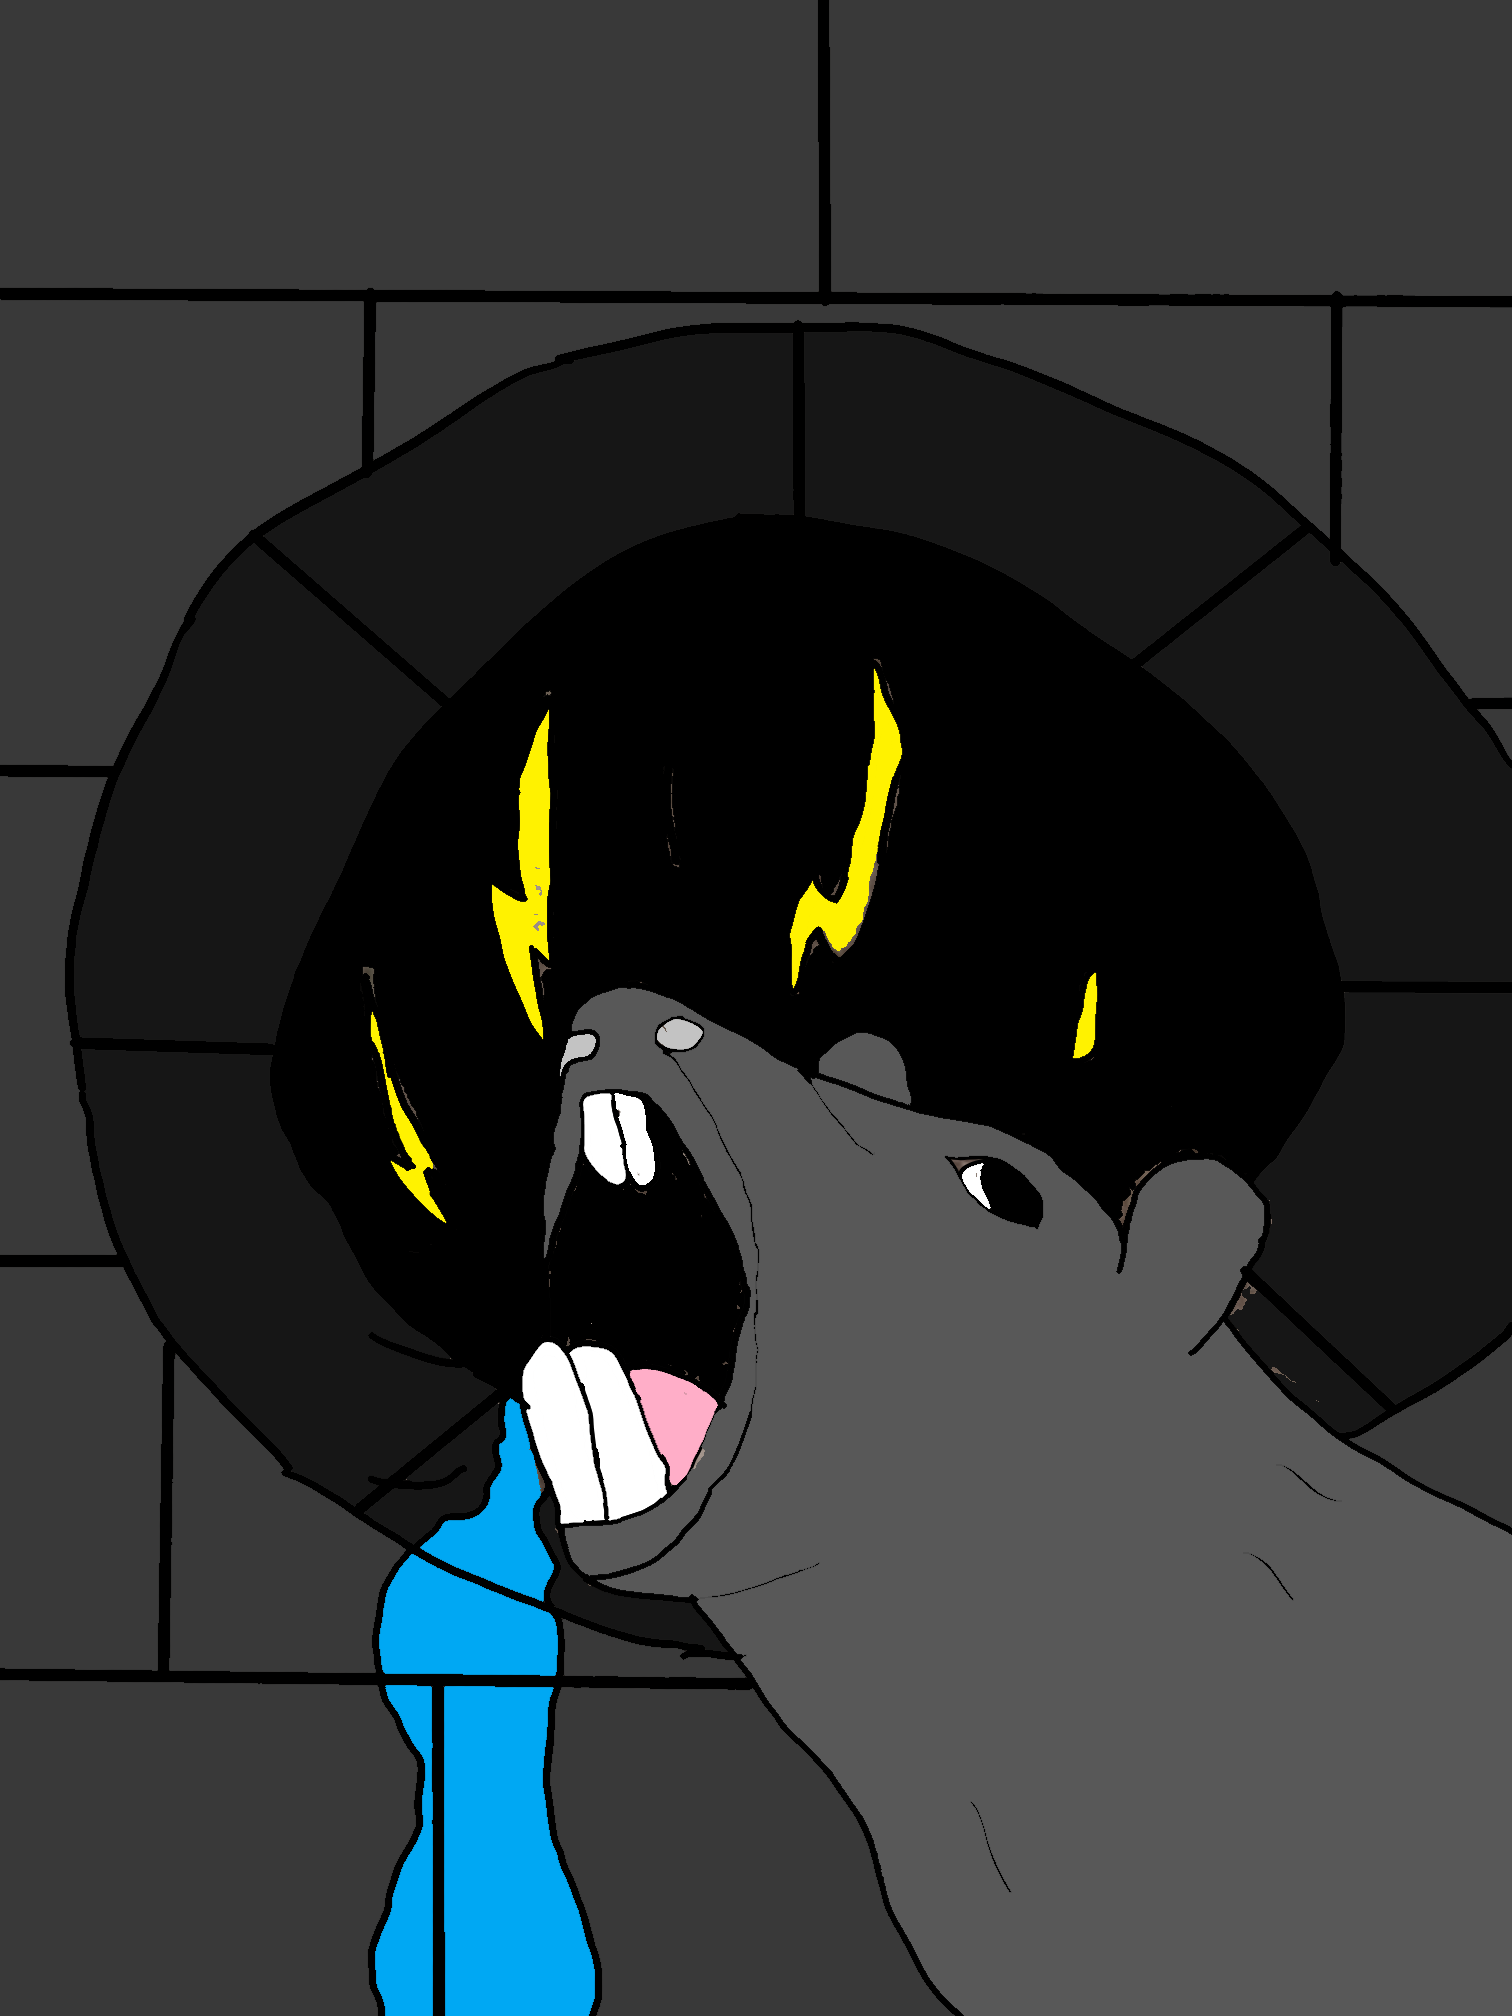
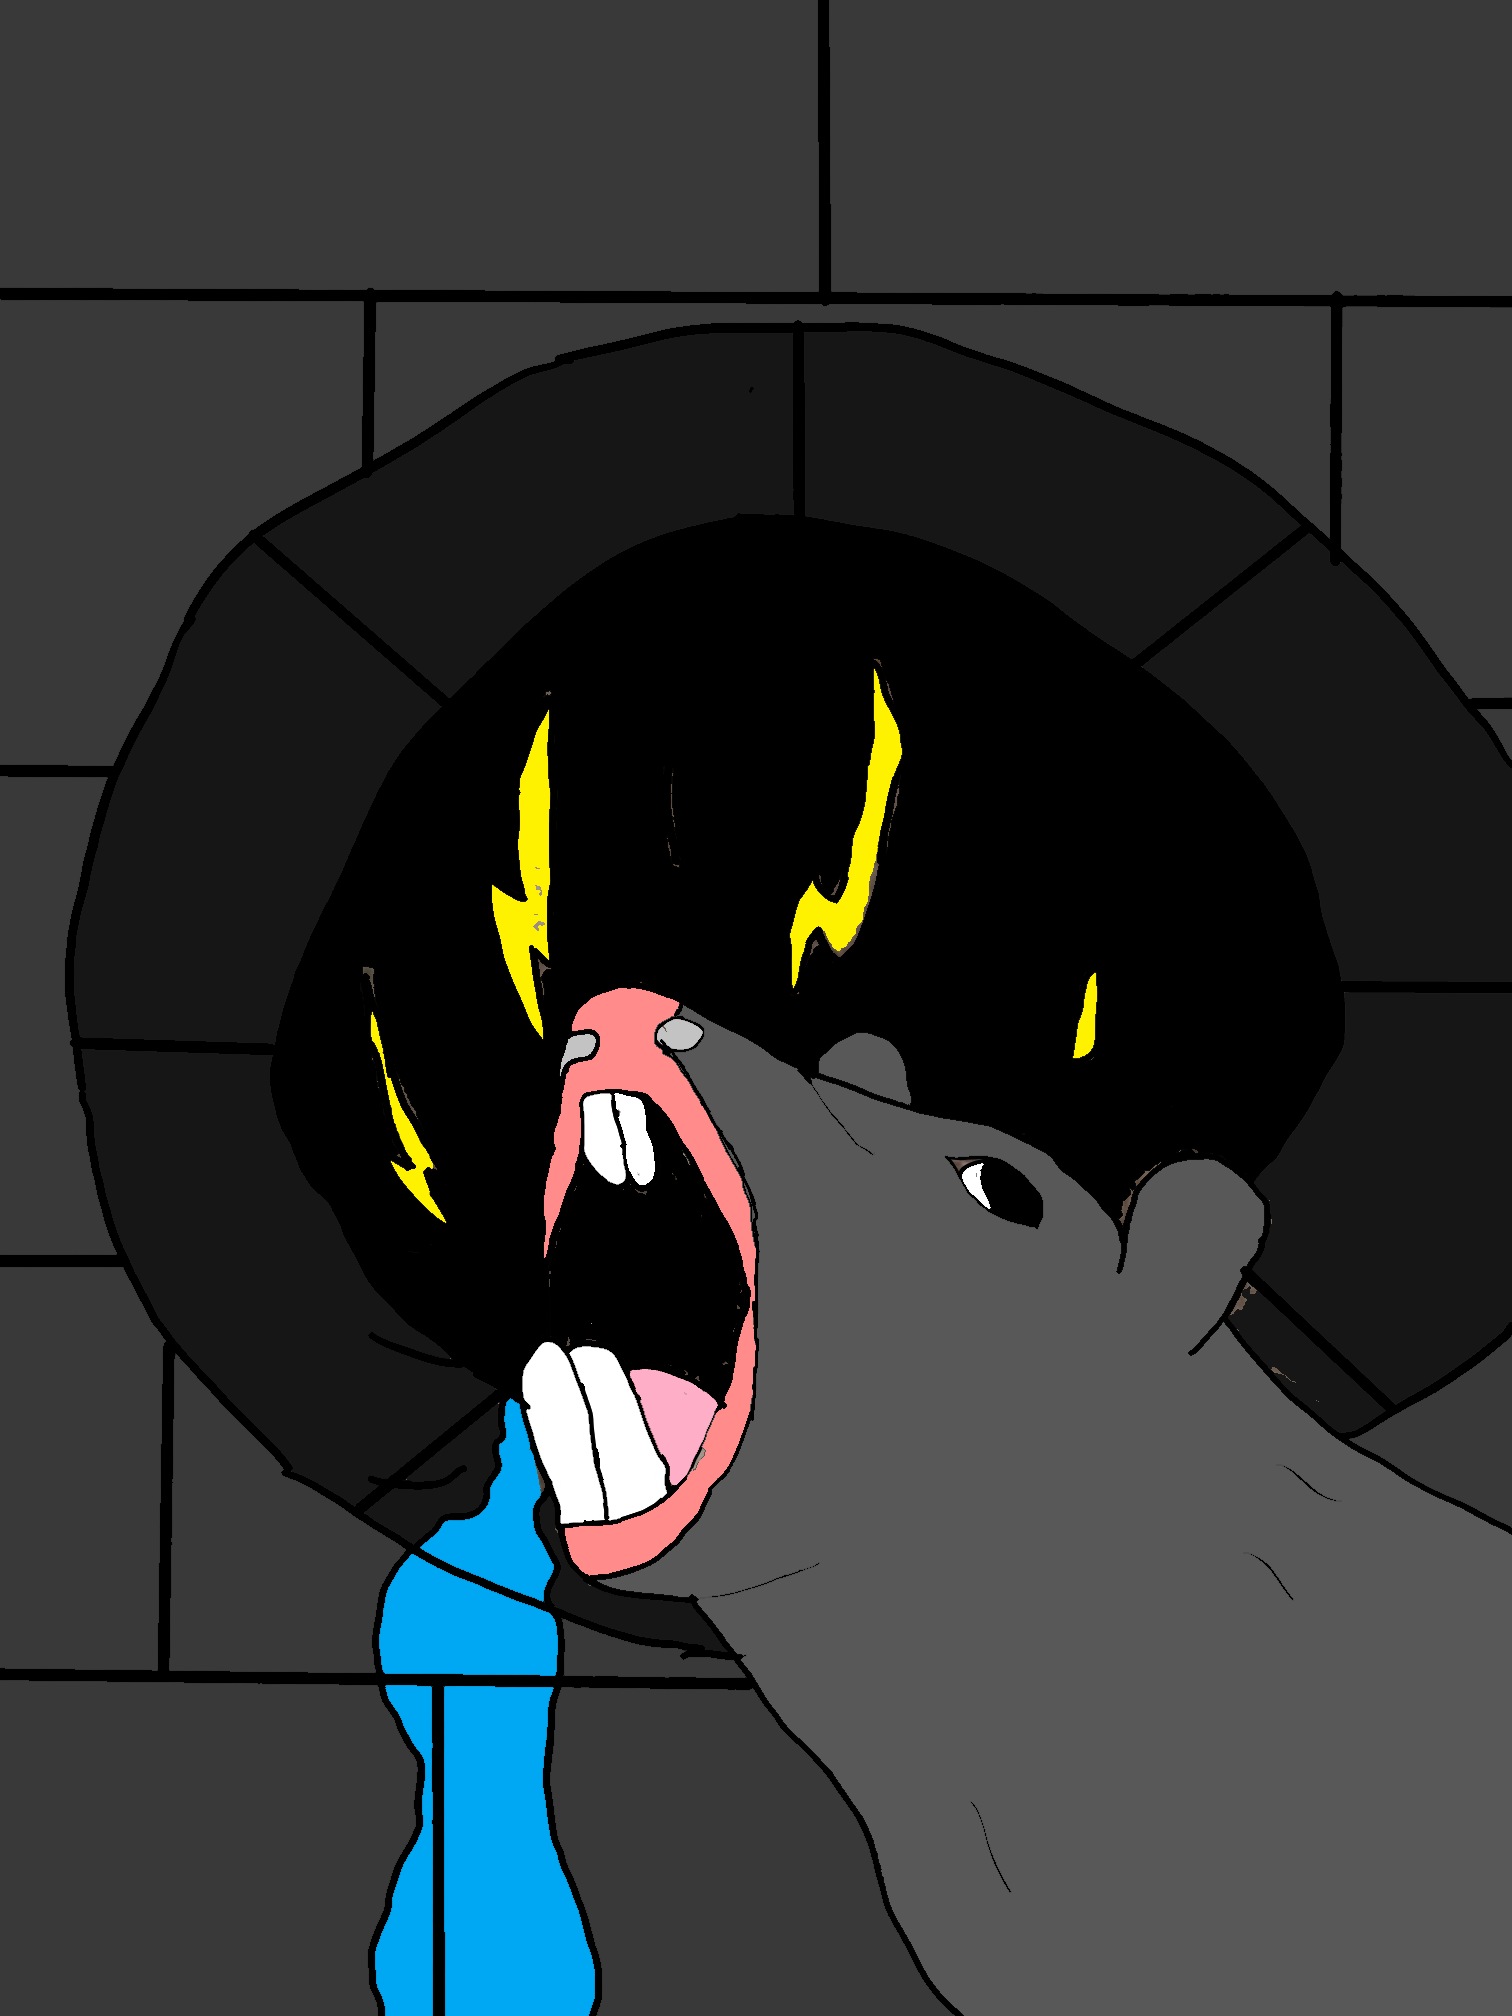
m

Changed region(s): [[0.3419, 0.4688, 0.4974, 0.625], [0.373, 0.625, 0.5284, 0.7812]]

diff --git a/src/app/pages/gallery/gallery.component.css b/src/app/pages/gallery/gallery.component.css
@@ -8,7 +8,6 @@
 
 
 
-  padding: 2rem;
 
   gap: 2rem;
 
@@ -171,7 +170,20 @@
 
 .displayer
 {
-  background-color: rebeccapurple;
+  border: solid 6px bisque;
+  border-radius: 5px;
+
+  & > p {
+    max-width: 50%;
+    text-align: center;
+    font-size: xx-large;
+  }
+
+  & > * {
+    margin: auto
+  }
+
+  display: flex;
   min-width: 25vw;
   
 }

diff --git a/src/app/pages/gallery/gallery.component.html b/src/app/pages/gallery/gallery.component.html
@@ -45,7 +45,7 @@
     <div
       *ngFor="let card of cards"
     >
-      <p>
+      <p class="title">
         {{  card.name }}
       </p>
 
@@ -82,12 +82,16 @@
     
     <div
     class="displayer">
-<app-cardvisualizer
-*ngIf="hoverCard"
-  [card]="hoverCard"
- >
+      <app-cardvisualizer
+      *ngIf="hoverCard"
+        [card]="hoverCard"
+      >
 
-</app-cardvisualizer>
+      </app-cardvisualizer>
+
+      <p *ngIf="!hoverCard" >
+        Haz click en una carta para ver lo que hace
+      </p>
 
     </div>
   </div>

diff --git a/src/app/shared/components/card/card.component.css b/src/app/shared/components/card/card.component.css
@@ -12,6 +12,9 @@
   height: 21vh;
 
   transition: transform 0.2s ease-out;
+
+  background-repeat: no-repeat;
+  background-size: cover;
 }
 
 @media (max-width: 800px) {
@@ -65,10 +68,6 @@
 .card-front {
   display: flex;
   flex-direction: column;
-
-  background-color: #7b7855;
-
-  background-size: contain;
 
   & > *:not(.cannot-play) {
     color: #ffffff;